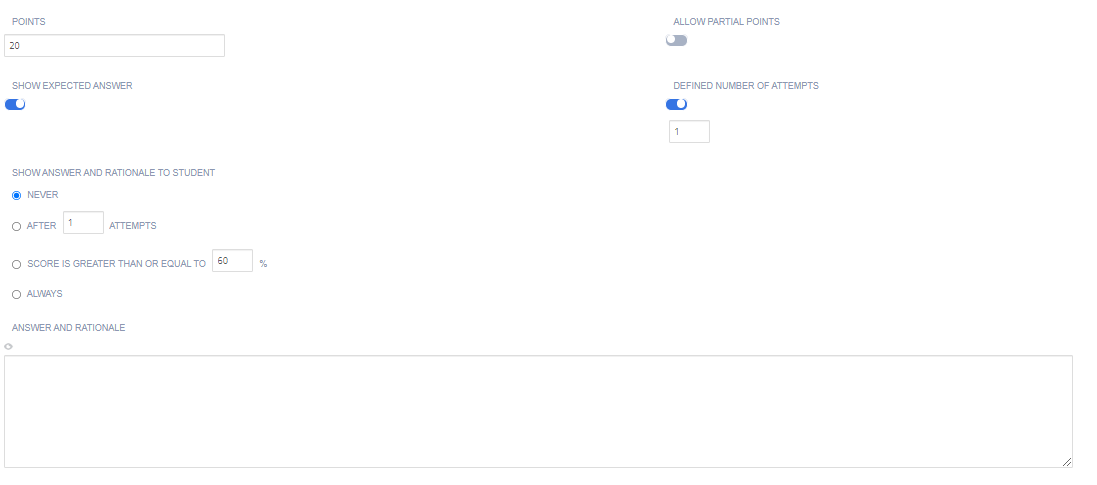
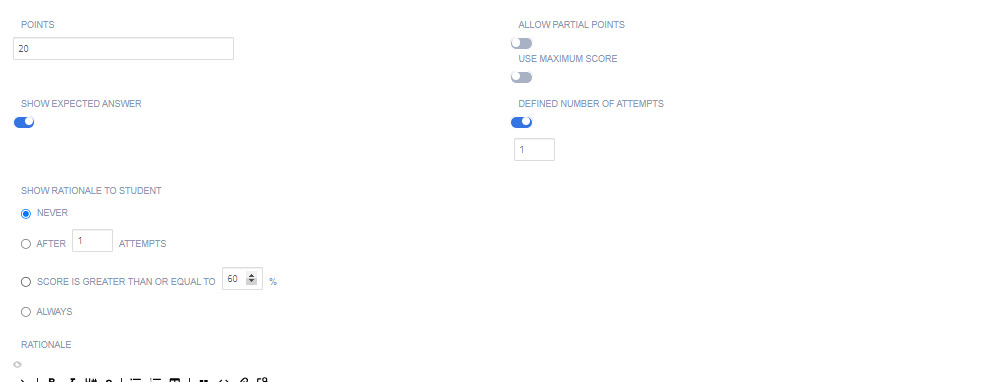
Minor-update-grading (#287)

diff --git a/source/instructors/authoring/assessments/parsons-puzzle.rst b/source/instructors/authoring/assessments/parsons-puzzle.rst
@@ -36,7 +36,7 @@ Complete the following steps to set up a **Line Based Grader** Parsons Puzzle as
 
 3. Click **Grading** in the navigation pane and complete the following fields:
 
-   .. image:: /img/guides/assessment_grading.png
+   .. image:: /img/guides/Grading-new-feature1.png
       :alt: Grading
 
   - **Points** - Enter the score if the student selects the correct answer. You can choose any positive numeric value. If this is an ungraded assessment, enter zero (0).
@@ -45,6 +45,7 @@ Complete the following steps to set up a **Line Based Grader** Parsons Puzzle as
   - **Show Rationale to Students** - Toggle to display the answer, and the rationale for the answer, to the student. This guidance information will be shown to students after they have submitted their answer and any time they view the assignment after marking it as completed. You can set when to show this selecting from **Never**, **After x attempts**, **If score is greater than or equal to a % of the total** or **Always**
 
   - **Rationale** - Enter guidance for the assessment. This is visible to the teacher when the project is opened in the course or when opening the student's project. This guidance information can also be shown to students after they have submitted their answer and when they reload the assignment after marking it as completed. 
+  - **Use maximum score** - Toggle to enable assessment final score to be the highest score attained of all runs.
 
 4. Click on the **Parameters** tab if you wish to set up **Parameterized Assessments**. See :ref:`Parameterized Assessments <parameterized>` for more information.
 

diff --git a/source/instructors/authoring/assessments/advanced-code-test.rst b/source/instructors/authoring/assessments/advanced-code-test.rst
@@ -43,7 +43,7 @@ Complete each section to set up your advanced code test.
 
 3. Click **Grading** in the left navigation pane and complete the following fields:
 
-   .. image:: /img/guides/assessment_grading.png
+   .. image:: /img/guides/Grading-new-feature1.png
       :alt: Grading
 
   - **Points** - The score given to the student if the code test passes. You can enter any positive numeric value. If this assessment should not be graded, enter 0 points.
@@ -51,6 +51,7 @@ Complete each section to set up your advanced code test.
   - **Define Number of Attempts** - enable to allow and set the number of attempts students can make for this assessment. If disabled, the student can make unlimited attempts.
   - **Show Rationale to Students** - Toggle to display the rationale for the answer to the student. This guidance information will be shown to students after they have submitted their answer and any time they view the assignment after marking it as completed. You can set when to show this selecting from **Never**, **After x attempts**, **If score is greater than or equal to a % of the total** or **Always**
   - **Rationale** - Enter guidance for the assessment. This is always visible to the teacher when the project is opened in the course or when opening the student's project. 
+  - **Use maximum score** - Toggle to enable assessment final score to be the highest score attained of all runs.
 
 5. Click **Metadata** in the left navigation pane and complete the following fields:
 

diff --git a/source/instructors/authoring/assessments/multiple-choice.rst b/source/instructors/authoring/assessments/multiple-choice.rst
@@ -45,7 +45,8 @@ Multiple choice type assessments provide a question and then single or multiple 
  
   - **Show Rationale to Students** - Toggle to display the rationale for the answer, to the student. This guidance information will be shown to students after they have submitted their answer and any time they view the assignment after marking it as completed. You can set when to show this selecting from **Never**, **After x attempts**, **If score is greater than or equal to a % of the total** or **Always**
 
-  - **Rationale** - Enter guidance for the assessment. This is always visible to the teacher when the project is opened in the course or when opening the student's project.  
+  - **Rationale** - Enter guidance for the assessment. This is always visible to the teacher when the project is opened in the course or when opening the student's project. 
+  - **Use maximum score** - Toggle to enable assessment final score to be the highest score attained of all runs. 
 
 4. Click on the **Parameters** tab if you wish to set up **Parameterized Assessments**. See :ref:`Parameterized Assessments <parameterized>` for more information.
 

diff --git a/source/instructors/authoring/assessments/autograde-free-text.rst b/source/instructors/authoring/assessments/autograde-free-text.rst
@@ -50,6 +50,7 @@ Follow these steps to set up an autograde free text assessment:
   - **Define Number of Attempts** - enable to allow and set the number of attempts students can make for this assessment. If disabled, the student can make unlimited attempts.
   - **Show Rationale to Students** - Toggle to display the rationale for the answer, to the student. This guidance information will be shown to students after they have submitted their answer and any time they view the assignment after marking it as completed. You can set when to show this selecting from **Never**, **After x attempts**, **If score is greater than or equal to a % of the total** or **Always** 
   - **Rationale** - Enter guidance for the assessment. This is always visible to the teacher when the project is opened in the course or when opening the student's project. 
+  - **Use maximum score** - Toggle to enable assessment final score to be the Highest score attained of all runs.
 
 4. Click on the **Parameters** tab if you wish to set up **Parameterized Assessments**. See :ref:`Parameterized Assessments <parameterized>` for more information.
 

diff --git a/source/instructors/authoring/assessments/standard-code-test.rst b/source/instructors/authoring/assessments/standard-code-test.rst
@@ -97,7 +97,7 @@ Follow these steps to set up a standard code test:
 
 3. Click **Grading** in the left navigation pane and complete the following fields:
 
-   .. image:: /img/guides/assessment_sct_grading.png
+   .. image:: /img/guides/Grading-new-feature1.png
       :alt: Grading
 
   - **Points** - The score given to the student if the code test passes. You can enter any positive numeric value. If this assessment should not be graded, enter 0 points.
@@ -107,6 +107,7 @@ Follow these steps to set up a standard code test:
   - **Substring Match** - Toggle to enable substring match when comparing the expected output to the student output. The entire expected output needs to be contiguous in the student output.
   - **Add Item to Check** - Click to create another set of input/output fields.
   - **Input - Arguments** - Enter the command line arguments that are read by the student code.
+  - **Use maximum score** - Toggle to enable assessment final score to be the highest score attained of all runs.
 
     .. image:: /img/guides/std-assessment-args.png
        :alt: Input Arguments

diff --git a/source/instructors/authoring/assessments/fill-in-blanks.rst b/source/instructors/authoring/assessments/fill-in-blanks.rst
@@ -84,6 +84,7 @@ Follow these steps to set up fill in the blank assessments:
   - **Show Rationale to Students** - Toggle to display the rationale for the answer, to the student. This guidance information will be shown to students after they have submitted their answer and any time they view the assignment after marking it as completed. You can set when to show this selecting from **Never**, **After x attempts**, **If score is greater than or equal to a % of the total** or **Always**
 
   - **Rationale** - Enter guidance for the assessment. This is always visible to the teacher when the project is opened in the course or when opening the student's project. 
+  - **Use maximum score** - Toggle to enable assessment final score to be the highest score attained of all runs.
 
 4. Click on the **Parameters** tab if you wish to set up **Parameterized Assessments**. See :ref:`Parameterized Assessments <parameterized>` for more information.
 

diff --git a/source/instructors/authoring/assessments/random.rst b/source/instructors/authoring/assessments/random.rst
@@ -16,6 +16,8 @@ If duplicate assessments are generated, it indicates that the assessment library
 
 2. On the **Grading** page, enter the amount of points to assign to the assessment. Enter the score for correctly answering the question they are assigned. You can choose any positive numeric value. If this is an ungraded assessment, enter zero (0).
 
+- **Use maximum score** - Toggle to enable assessment final score to be the highest score attained of all runs.
+
 3. On the **Execution** page, browse to an assessment library where you can set up filters define the range of assessments to randomly assign. You can work from any assessment library you have access to.
 
 :ref:`Click here <assess-library>` for more information on how to use Assessment Libraries.

diff --git a/source/instructors/getstarted/support/changelog.rst b/source/instructors/getstarted/support/changelog.rst
@@ -15,6 +15,8 @@ We do not report small bug fixes or issues that affect individual users, who we 
 
 **March 2024**
 
+- `[I] [26th]`: Added a new feature "Use maximum score" in :ref:`Auto-graded assessment <add-assessment>`
+
 - `[F] [18th]`: Added :ref:`Virtual Coach <virtual-Coach>` feature to help students with the tasks.
 
 
